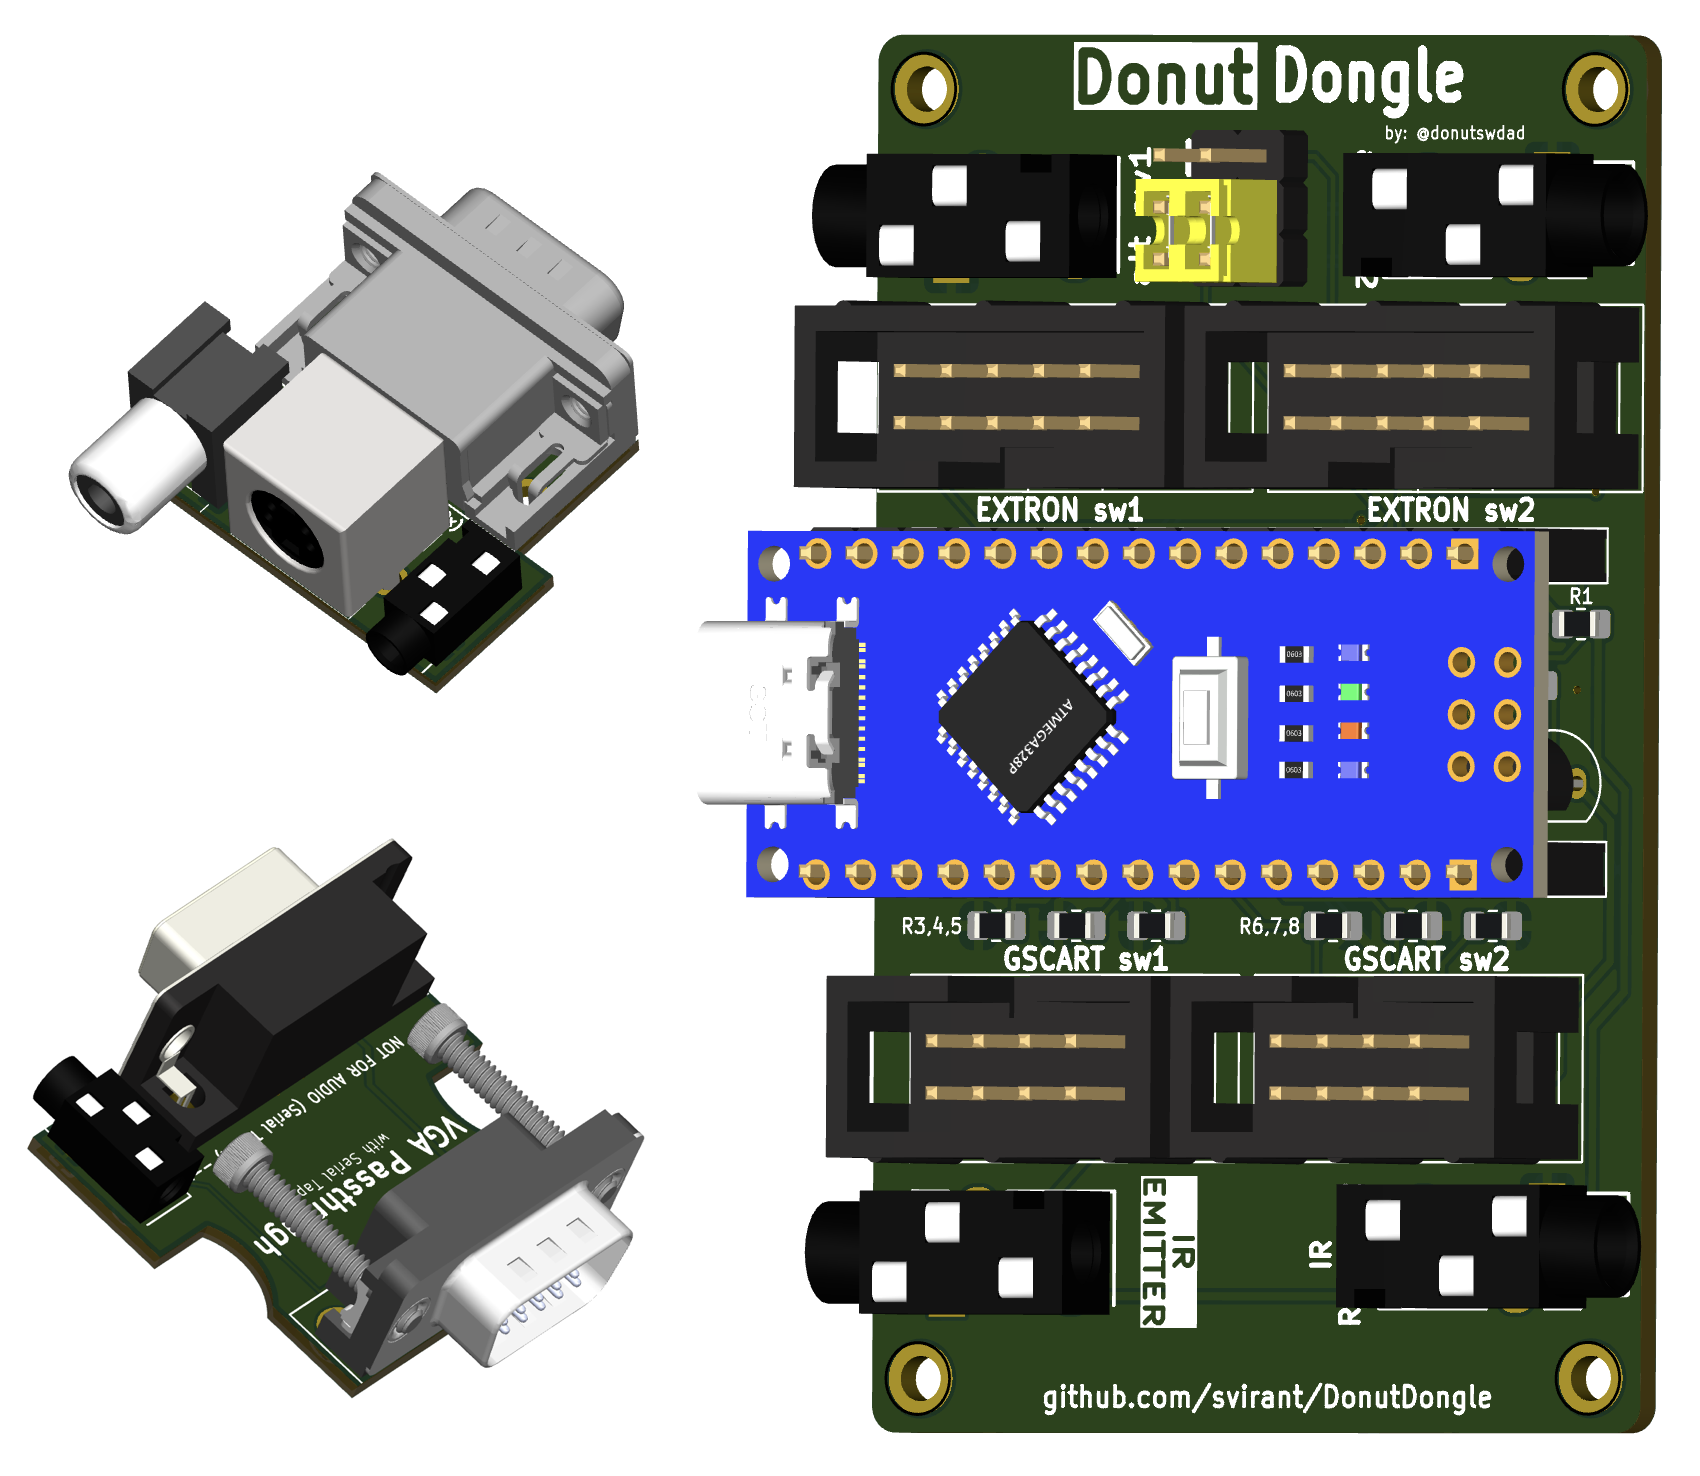
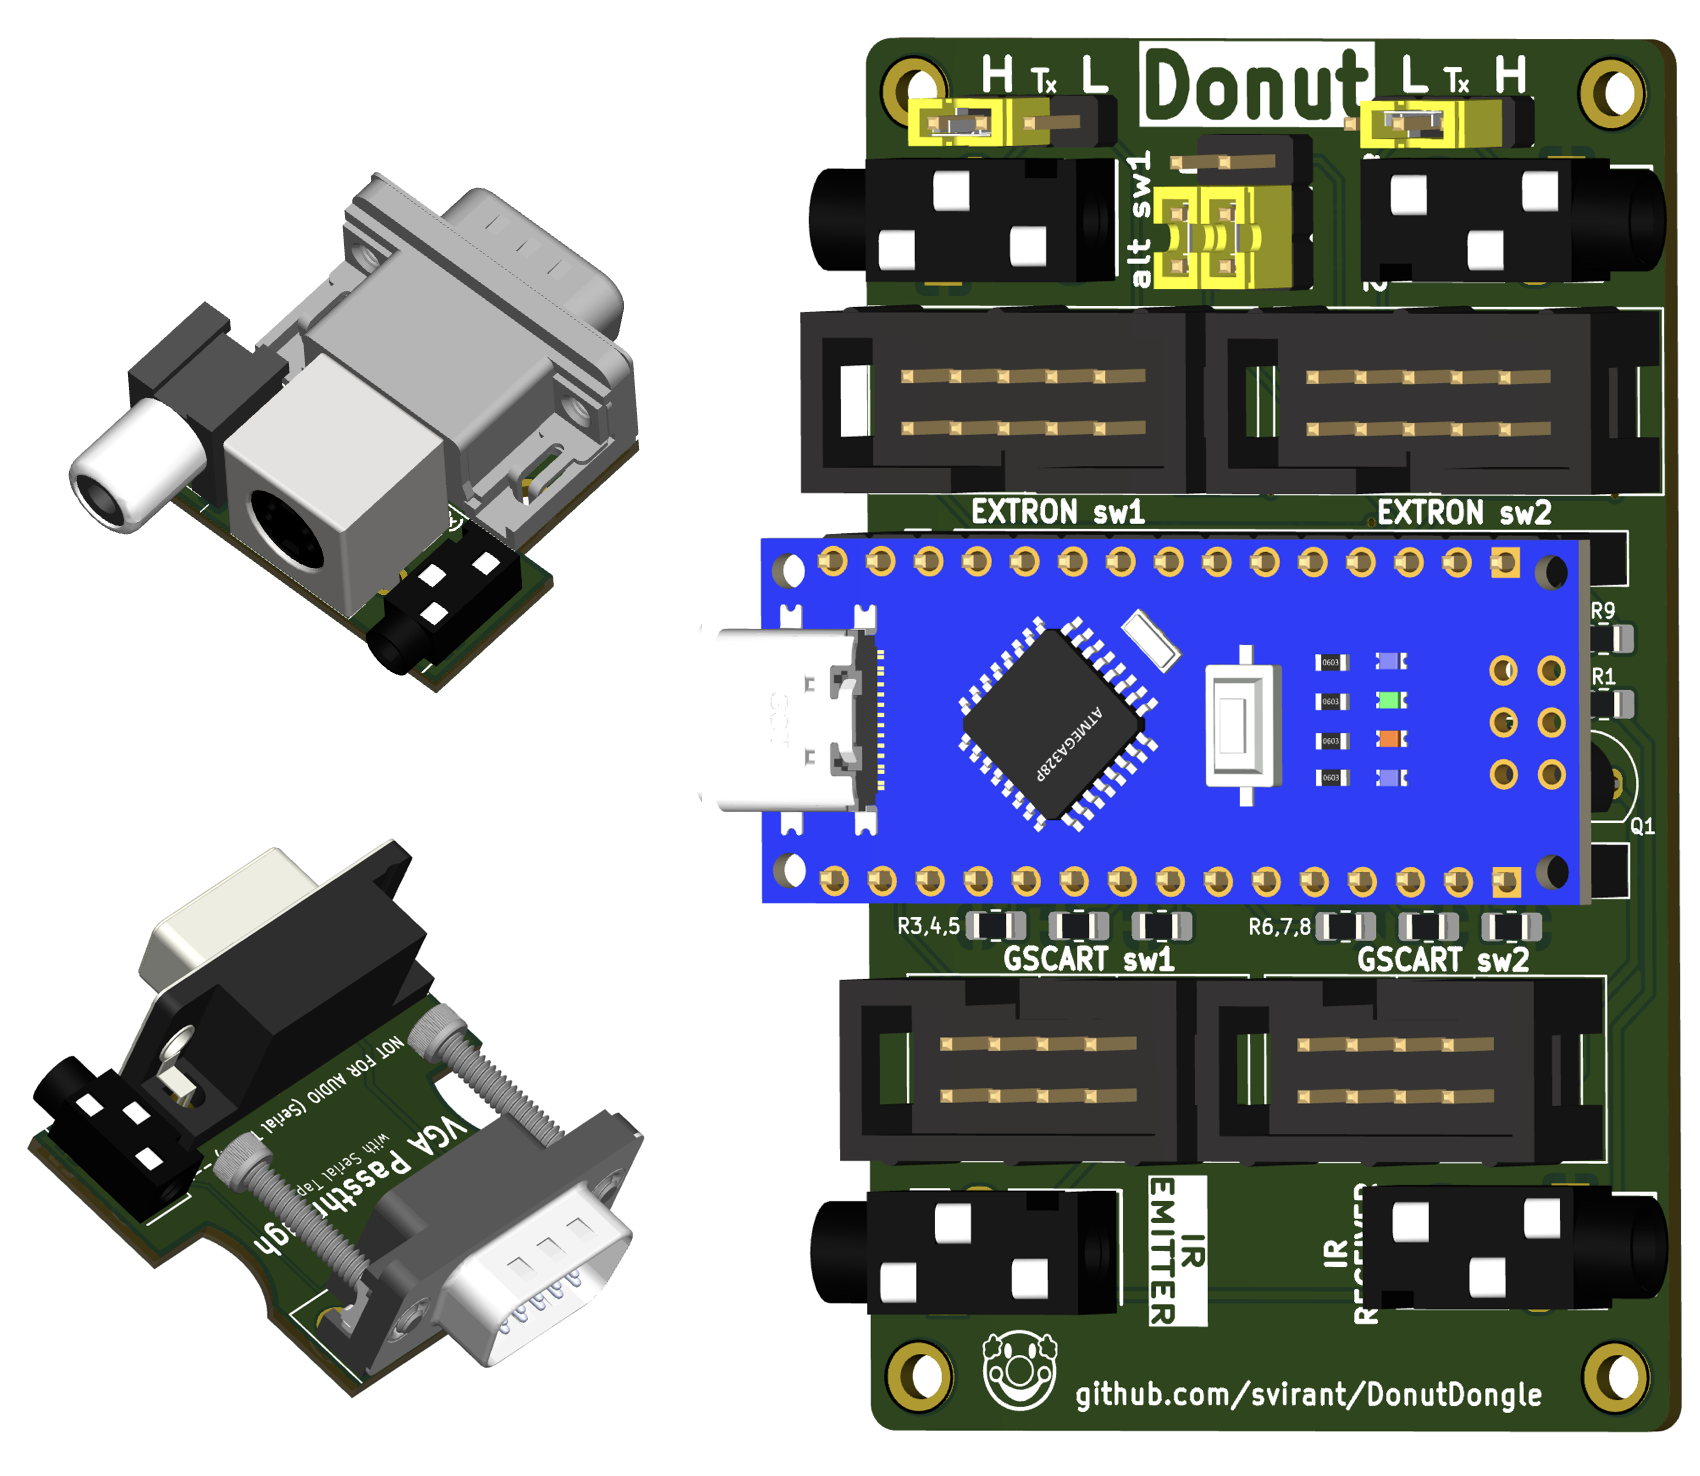
setup page for new adapter - VGAPassthrough_wSharedSerial "shared serial bus"

Changed region(s): [[0.4053, 0.0, 0.9976, 0.9661]]

diff --git a/Adapters/README.md b/Adapters/README.md
@@ -16,10 +16,21 @@ Gerbers (.zip) files needed for PCB manufacturing listed above.
 
 ### VGAPassthrough_wSerial
  - 4 Layer design
- - Passes signals through untouched to the VGA port.
+ - Passes video signals through untouched to the VGA port.
+ - Isolates from non-video signals (Pins 12,15)
  - Designed for use with #4-40 x 3/4" jackscrew "bolts" for heavier VGA cable support.
  - BOM listed on Main README
 <img width="384" src="../images/11.png" />
+<br />
+
+### VGAPassthrough_wSharedSerial "shared serial bus"
+Coming Soon!
+ - Passes all video AND non-video signals (Pins 12,15) which allows it to cohabitate with the [Scalable Video Switch](https://scalablevideoswitch.com)
+ - 4 Layer design
+ - Designed for use with #4-40 x 3/4" jackscrew "bolts" for heavier VGA cable support.
+ - BOM listed on Main README
+ <img width="384" src="../images/11a.png" />
+
 
 
 
